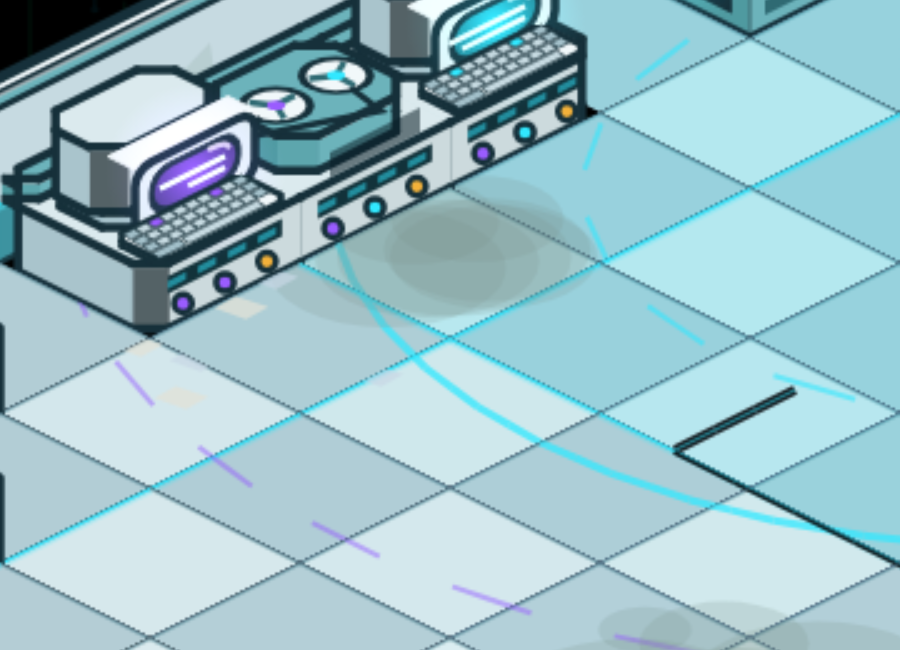
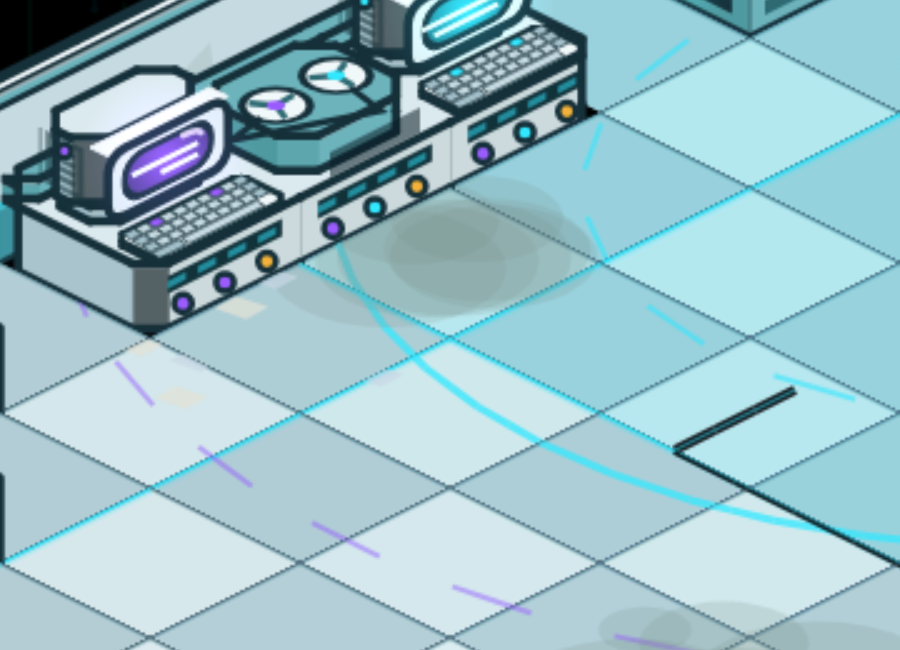
Crystal lab style: keyboard clear of the monitor, a vented side panel on the monitor
The monitor is shallower (bezel front at 0.12) so the keyboard no longer pushes into it, and the monitor's visible side gets an inset vented panel with a knob and a panel join. Build 2026-10-24f.

Claude-Session: https://claude.ai/code/session_0115DZYYhipQqSk6LHvQcEfz

Changed region(s): [[0.0311, 0.1231, 0.3111, 0.3692], [0.3733, 0.0, 0.6222, 0.1538], [0.3111, 0.1538, 0.3422, 0.1846]]

diff --git a/game.html b/game.html
@@ -1771,12 +1771,12 @@ function _showError(msg) {
 // Script files that failed to download. A missing file raises no error of its
 // own — only the "Can't find variable" from whatever needed it — so the load
 // failure is caught here, on its way down (capture phase).
-// THE BUILD. Every script URL below carries ?v=2026-10-24e, so a new deploy
+// THE BUILD. Every script URL below carries ?v=2026-10-24f, so a new deploy
 // fetches a matching set: REPORTED, an iPad ran the new js/indexart.js against
 // an old cached js/config.js ("Attempted to assign to readonly property").
 // Change this, the ?v= on every script tag and BUILD_VERSION in js/config.js
 // together (tests/boot.js checks they agree).
-window.__PAGE_BUILD = "2026-10-24e";
+window.__PAGE_BUILD = "2026-10-24f";
 window.__bootFailed = [];
 window.addEventListener("error", function (e) {
     var t = e && e.target;
@@ -1812,77 +1812,77 @@ if (!CanvasRenderingContext2D.prototype.roundRect) {
 </script>
 
 <!-- Game scripts — load order matters (globals first, logic last) -->
-<script src="js/config.js?v=2026-10-24e"></script>
-<script src="js/icons.js?v=2026-10-24e"></script>
-<script src="js/uikit.js?v=2026-10-24e"></script>
-<script src="js/rng.js?v=2026-10-24e"></script>
-<script src="js/traits.js?v=2026-10-24e"></script>
-<script src="js/elements.js?v=2026-10-24e"></script>
-<script src="js/combat.js?v=2026-10-24e"></script>
-<script src="js/species.js?v=2026-10-24e"></script>
-<script src="js/levels.js?v=2026-10-24e"></script>
-<script src="js/status.js?v=2026-10-24e"></script>
-<script src="js/predator_randomizer.js?v=2026-10-24e"></script>
-<script src="js/mass.js?v=2026-10-24e"></script>
-<script src="js/infest.js?v=2026-10-24e"></script>
-<script src="js/power.js?v=2026-10-24e"></script>
-<script src="js/save.js?v=2026-10-24e"></script>
-<script src="js/camp.js?v=2026-10-24e"></script>
-<script src="js/wavedata.js?v=2026-10-24e"></script>
-<script src="js/helpers.js?v=2026-10-24e"></script>
-<script src="js/predator.js?v=2026-10-24e"></script>
-<script src="js/abilities.js?v=2026-10-24e"></script>
-<script src="js/world.js?v=2026-10-24e"></script>
-<script src="js/commands.js?v=2026-10-24e"></script>
-<script src="js/npc.js?v=2026-10-24e"></script>
-<script src="js/codex.js?v=2026-10-24e"></script>
-<script src="js/draw.js?v=2026-10-24e"></script>
-<script src="js/beetle3d.js?v=2026-10-24e"></script>
-<script src="js/bugs3d.js?v=2026-10-24e"></script>
-<script src="js/ui.js?v=2026-10-24e"></script>
-<script src="js/waves.js?v=2026-10-24e"></script>
-<script src="js/drops.js?v=2026-10-24e"></script>
-<script src="js/clone.js?v=2026-10-24e"></script>
-<script src="js/clonework.js?v=2026-10-24e"></script>
-<script src="js/broods.js?v=2026-10-24e"></script>
-<script src="js/raids.js?v=2026-10-24e"></script>
-<script src="js/ultra.js?v=2026-10-24e"></script>
-<script src="js/formations.js?v=2026-10-24e"></script>
-<script src="js/breakout.js?v=2026-10-24e"></script>
-<script src="js/nightraids.js?v=2026-10-24e"></script>
-<script src="js/bonds.js?v=2026-10-24e"></script>
-<script src="js/autoplay.js?v=2026-10-24e"></script>
-<script src="js/indexart.js?v=2026-10-24e"></script>
-<script src="js/modules.js?v=2026-10-24e"></script>
-<script src="js/shieldcells.js?v=2026-10-24e"></script>
-<script src="js/evolution.js?v=2026-10-24e"></script>
-<script src="js/hdsprites.js?v=2026-10-24e"></script>
-<script src="js/firebombs.js?v=2026-10-24e"></script>
-<script src="js/wallunit.js?v=2026-10-24e"></script>
-<script src="js/labwall.js?v=2026-10-24e"></script>
-<script src="js/moves.js?v=2026-10-24e"></script>
-<script src="js/squads.js?v=2026-10-24e"></script>
-<script src="js/recruitcrystal.js?v=2026-10-24e"></script>
-<script src="js/buildmenu.js?v=2026-10-24e"></script>
-<script src="js/hudgems.js?v=2026-10-24e"></script>
-<script src="js/nethud.js?v=2026-10-24e"></script>
-<script src="js/commandcenter.js?v=2026-10-24e"></script>
-<script src="js/unitinfo.js?v=2026-10-24e"></script>
-<script src="js/infodex.js?v=2026-10-24e"></script>
-<script src="js/facilitymap.js?v=2026-10-24e"></script>
-<script src="js/facility.js?v=2026-10-24e"></script>
-<script src="js/facilityplay.js?v=2026-10-24e"></script>
-<script src="js/facilitydecor.js?v=2026-10-24e"></script>
-<script src="js/facilitystyle.js?v=2026-10-24e"></script>
-<script src="js/zones.js?v=2026-10-24e"></script>
-<script src="js/kits.js?v=2026-10-24e"></script>
-<script src="js/kitui.js?v=2026-10-24e"></script>
-<script src="js/toolbox.js?v=2026-10-24e"></script>
-<script src="js/mixtool.js?v=2026-10-24e"></script>
-<script src="js/radialmenu.js?v=2026-10-24e"></script>
-<script src="js/input.js?v=2026-10-24e"></script>
-<script src="js/game.js?v=2026-10-24e"></script>
-<script src="js/dev.js?v=2026-10-24e"></script>
+<script src="js/config.js?v=2026-10-24f"></script>
+<script src="js/icons.js?v=2026-10-24f"></script>
+<script src="js/uikit.js?v=2026-10-24f"></script>
+<script src="js/rng.js?v=2026-10-24f"></script>
+<script src="js/traits.js?v=2026-10-24f"></script>
+<script src="js/elements.js?v=2026-10-24f"></script>
+<script src="js/combat.js?v=2026-10-24f"></script>
+<script src="js/species.js?v=2026-10-24f"></script>
+<script src="js/levels.js?v=2026-10-24f"></script>
+<script src="js/status.js?v=2026-10-24f"></script>
+<script src="js/predator_randomizer.js?v=2026-10-24f"></script>
+<script src="js/mass.js?v=2026-10-24f"></script>
+<script src="js/infest.js?v=2026-10-24f"></script>
+<script src="js/power.js?v=2026-10-24f"></script>
+<script src="js/save.js?v=2026-10-24f"></script>
+<script src="js/camp.js?v=2026-10-24f"></script>
+<script src="js/wavedata.js?v=2026-10-24f"></script>
+<script src="js/helpers.js?v=2026-10-24f"></script>
+<script src="js/predator.js?v=2026-10-24f"></script>
+<script src="js/abilities.js?v=2026-10-24f"></script>
+<script src="js/world.js?v=2026-10-24f"></script>
+<script src="js/commands.js?v=2026-10-24f"></script>
+<script src="js/npc.js?v=2026-10-24f"></script>
+<script src="js/codex.js?v=2026-10-24f"></script>
+<script src="js/draw.js?v=2026-10-24f"></script>
+<script src="js/beetle3d.js?v=2026-10-24f"></script>
+<script src="js/bugs3d.js?v=2026-10-24f"></script>
+<script src="js/ui.js?v=2026-10-24f"></script>
+<script src="js/waves.js?v=2026-10-24f"></script>
+<script src="js/drops.js?v=2026-10-24f"></script>
+<script src="js/clone.js?v=2026-10-24f"></script>
+<script src="js/clonework.js?v=2026-10-24f"></script>
+<script src="js/broods.js?v=2026-10-24f"></script>
+<script src="js/raids.js?v=2026-10-24f"></script>
+<script src="js/ultra.js?v=2026-10-24f"></script>
+<script src="js/formations.js?v=2026-10-24f"></script>
+<script src="js/breakout.js?v=2026-10-24f"></script>
+<script src="js/nightraids.js?v=2026-10-24f"></script>
+<script src="js/bonds.js?v=2026-10-24f"></script>
+<script src="js/autoplay.js?v=2026-10-24f"></script>
+<script src="js/indexart.js?v=2026-10-24f"></script>
+<script src="js/modules.js?v=2026-10-24f"></script>
+<script src="js/shieldcells.js?v=2026-10-24f"></script>
+<script src="js/evolution.js?v=2026-10-24f"></script>
+<script src="js/hdsprites.js?v=2026-10-24f"></script>
+<script src="js/firebombs.js?v=2026-10-24f"></script>
+<script src="js/wallunit.js?v=2026-10-24f"></script>
+<script src="js/labwall.js?v=2026-10-24f"></script>
+<script src="js/moves.js?v=2026-10-24f"></script>
+<script src="js/squads.js?v=2026-10-24f"></script>
+<script src="js/recruitcrystal.js?v=2026-10-24f"></script>
+<script src="js/buildmenu.js?v=2026-10-24f"></script>
+<script src="js/hudgems.js?v=2026-10-24f"></script>
+<script src="js/nethud.js?v=2026-10-24f"></script>
+<script src="js/commandcenter.js?v=2026-10-24f"></script>
+<script src="js/unitinfo.js?v=2026-10-24f"></script>
+<script src="js/infodex.js?v=2026-10-24f"></script>
+<script src="js/facilitymap.js?v=2026-10-24f"></script>
+<script src="js/facility.js?v=2026-10-24f"></script>
+<script src="js/facilityplay.js?v=2026-10-24f"></script>
+<script src="js/facilitydecor.js?v=2026-10-24f"></script>
+<script src="js/facilitystyle.js?v=2026-10-24f"></script>
+<script src="js/zones.js?v=2026-10-24f"></script>
+<script src="js/kits.js?v=2026-10-24f"></script>
+<script src="js/kitui.js?v=2026-10-24f"></script>
+<script src="js/toolbox.js?v=2026-10-24f"></script>
+<script src="js/mixtool.js?v=2026-10-24f"></script>
+<script src="js/radialmenu.js?v=2026-10-24f"></script>
+<script src="js/input.js?v=2026-10-24f"></script>
+<script src="js/game.js?v=2026-10-24f"></script>
+<script src="js/dev.js?v=2026-10-24f"></script>
 <script>
 // ── BOOT CHECK ────────────────────────────────────────────
 // Every file above must have arrived and run before init.js starts the game.
@@ -1935,7 +1935,7 @@ if (!CanvasRenderingContext2D.prototype.roundRect) {
     document.body.appendChild(d);
 })();
 </script>
-<script src="js/init.js?v=2026-10-24e"></script>
+<script src="js/init.js?v=2026-10-24f"></script>
 
 </body>
 </html>

diff --git a/tests/facilityplay.js b/tests/facilityplay.js
@@ -241,7 +241,7 @@ function measure() {
         same(draw.err, null, 'a styled item threw'); ok(draw.n > 60, 'styled items drawn: ' + draw.n);
         const comp = J(`(function(){ const cs = _fp.items.filter(i => i.fp === 'prop' && i.kind === 'console' && i.room === 'crystal_chamber'); return { n: cs.length, x: Array.from(new Set(cs.map(i => i.x))), ys: cs.map(i => i.y).sort() }; })()`);
         same(comp.n, 3, 'the console bank is three units'); same(comp.x.length, 1, 'the bank is in a line'); ok(comp.x[0] <= 12, 'the bank faces the camera: it stands against the west wall, not the east wall that hides it: x ' + comp.x[0]);
-        ok(/_fpRBox/.test(src) && /_fpRRectPts/.test(src) && /createRadialGradient\(cs2\[0\]/.test(src) && /the back: a plain chunky box with rounded corners/.test(src), 'the rounded cabinet corners, the CRT back or the rounded screen are missing'); ok(/THE KEYBOARD: a rounded tray/.test(src) && /rows = 4, cols = 10/.test(src) && /the bank is ONE machine/.test(src) && /skip = fx/.test(src), 'the keyboard grid or the joined bank is missing'); ok(/_fpStyleComputer/.test(src) && /_fpStyleReel/.test(src) && /lineJoin = "round"/.test(src) && /w = lw \|\| 3/.test(src), 'the computers, reels or bold outlines are missing');
+        ok(/_fpRBox/.test(src) && /_fpRRectPts/.test(src) && /createRadialGradient\(cs2\[0\]/.test(src) && /the back: a plain chunky box with rounded corners/.test(src), 'the rounded cabinet corners, the CRT back or the rounded screen are missing'); ok(/THE SIDE PANEL/.test(src) && /wf = 0\.12, wb = 0\.0/.test(src), 'the monitor side panel is missing or the keyboard overlaps the bezel'); ok(/THE KEYBOARD: a rounded tray/.test(src) && /rows = 4, cols = 10/.test(src) && /the bank is ONE machine/.test(src) && /skip = fx/.test(src), 'the keyboard grid or the joined bank is missing'); ok(/_fpStyleComputer/.test(src) && /_fpStyleReel/.test(src) && /lineJoin = "round"/.test(src) && /w = lw \|\| 3/.test(src), 'the computers, reels or bold outlines are missing');
         same(J("FACILITY_MAP.rooms.length"), 14, 'rooms'); same(J("FACILITY_MAP.openings.length"), 13, 'openings'); ok(!/FACILITY_MAP|facilityCanStep|facilityWalkable|facilityMove/.test(src), 'the style reads or changes the map or the movement');
     });
     check('the catwalks are scaffolding: every wall piece of the catwalks is an open deck edge with a rail (and legs where the arena\'s frame is not), the arena\'s railing wall is an open steel frame, and nothing about them is a solid wall', () => {

diff --git a/js/facilitystyle.js b/js/facilitystyle.js
@@ -192,9 +192,14 @@ function _fpStyleComputer(it) {
         ctx.strokeStyle = FP_PAL.ink; ctx.lineWidth = 2.5; ctx.beginPath(); ctx.moveTo(a[0] + 6, a[1] + 5); ctx.lineTo(a[0] + 18, a[1] + 14); ctx.lineTo(b[0] - 18, b[1] + 14); ctx.lineTo(b[0] - 6, b[1] + 5); ctx.stroke();
         if (front) face(0.2, 0.8, 28, 38, "rgba(10,30,38,0.55)", null);
     } else {         // a monitor on a plinth: a chunky rounded back, a rounded bezel plate, a flat rounded screen with one shine; and a real keyboard in front
-        const wf = 0.3, wb = 0.12, pul = 0.8 + 0.2 * Math.sin(f * 0.05 + seed);
-        rbox(-0.36, 0.36, -0.34, 0.14, 26, 32, FP_PAL.case, FP_PAL.wallDark, FP_PAL.case, 0.1, 3.5, false);              // the plinth the monitor stands on
+        const wf = 0.12, wb = 0.0, pul = 0.8 + 0.2 * Math.sin(f * 0.05 + seed);
+        rbox(-0.36, 0.36, -0.34, 0.06, 26, 32, FP_PAL.case, FP_PAL.wallDark, FP_PAL.case, 0.1, 3.5, false);              // the plinth the monitor stands on
         rbox(-0.4, 0.4, -0.36, wb, 32, 58, FP_PAL.caseLit, FP_PAL.case, _fpShade(FP_PAL.caseLit, 0.93), 0.13, 3.5, false);   // the back: a plain chunky box with rounded corners, like the cabinet
+        const sd = (w, z) => pt(0.4, w, z), seam = (w0, z0, w1, z1, col, lw) => { const p0 = sd(w0, z0), p1 = sd(w1, z1); ctx.strokeStyle = col; ctx.lineWidth = lw; ctx.beginPath(); ctx.moveTo(p0[0], p0[1]); ctx.lineTo(p1[0], p1[1]); ctx.stroke(); };
+        _fpQuad([sd(-0.28, 36), sd(-0.06, 36), sd(-0.06, 55), sd(-0.28, 55)], "rgba(27,54,64,0.1)", "rgba(27,54,64,0.55)", 2);   // THE SIDE PANEL: an inset panel with vent slats and a knob (the side the camera sees)
+        for (let i = 0; i < 4; i++) seam(-0.24, 40 + i * 3.6, -0.1, 40 + i * 3.6, "rgba(27,54,64,0.6)", 2);
+        const kn = sd(-0.17, 51.5); ctx.fillStyle = acc; ctx.beginPath(); ctx.arc(kn[0], kn[1], 2.6, 0, 6.2832); ctx.fill(); ctx.strokeStyle = FP_PAL.ink; ctx.lineWidth = 2; ctx.stroke();
+        seam(-0.33, 34, -0.33, 56, "rgba(27,54,64,0.35)", 1.5);   // a panel join near the back
         const tl = pt(-0.4, wb, 58), tr = pt(0.4, wb, 58), fl = pt(-0.4, wf, 58), fr = pt(0.4, wf, 58);
         _fpQuad([tl, tr, fr, fl], FP_PAL.cap, FP_PAL.cap, 1);   // the thin top of the bezel slab
         _fpQuad(_fpRRectPts(pt, -0.4, 0.4, 31, 58, 0.11, 7, wf), FP_PAL.caseLit, FP_PAL.ink, 3.5);   // the bezel: a rounded plate

diff --git a/js/config.js b/js/config.js
@@ -4,7 +4,7 @@
 
 // The build this file belongs to — the same as window.__PAGE_BUILD and the
 // ?v= on every script tag in game.html (the boot check compares them).
-const BUILD_VERSION = "2026-10-24e";
+const BUILD_VERSION = "2026-10-24f";
 
 // ── GLOBAL ERROR DISPLAY ──────────────────────────────────
 // Lives in game.html (_showError), before any file loads. This file used to

diff --git a/docs/STYLE-CRYSTAL-LAB.md b/docs/STYLE-CRYSTAL-LAB.md
@@ -25,7 +25,7 @@ Saturated colour is for crystal energy and things you use; everything else is a 
 ## Rules
 
 - **Shapes and outlines (refined; reference Dexter's Laboratory and The Powerpuff Girls).** Chunky boxes and cylinders: a lit top, a lit +x side, a darker +y side, a white shine along the lit top edges, a flat toon shadow on the floor. One BOLD ink outline (3-3.5 px, round joins) round the silhouette of every solid, wall top and post; the faces inside a solid are separated by value, never by outlines, and there are none between adjacent wall pieces.
-- **Computers.** 3-D equipment, not flat panels: a cabinet with big knobs and lamps, a CRT monitor with a plain chunky rounded-corner box behind a rounded bezel plate and a flat rounded screen with one shine, cabinets and drive blocks with rounded vertical corners, a keyboard slab, a real keyboard (a rounded tray, a slight slope, four rows of keys with a long space bar, two lit keys) and a tape drive with two turning reels. The units are ONE machine: the cabinet run is continuous (no outline or rounded corner where two units meet, rounded at the ends), a back rail ties them to the wall, and each monitor stands on a plinth on the shared desk. The Crystal Chamber's console bank (three units) stands against the west wall facing into the room, where the camera can see their fronts (it used to be against the east wall, where the wall hid everything but the tops).
+- **Computers.** 3-D equipment, not flat panels: a cabinet with big knobs and lamps, a CRT monitor with a plain chunky rounded-corner box behind a rounded bezel plate and a flat rounded screen with one shine, cabinets and drive blocks with rounded vertical corners, a keyboard slab, a real keyboard (a rounded tray, a slight slope, four rows of keys with a long space bar, two lit keys) and a tape drive with two turning reels. The units are ONE machine: the cabinet run is continuous (no outline or rounded corner where two units meet, rounded at the ends), a back rail ties them to the wall, and each monitor stands on a plinth on the shared desk, with a clear gap between its bezel and the keyboard and an inset vented panel with a knob on the side the camera sees. The Crystal Chamber's console bank (three units) stands against the west wall facing into the room, where the camera can see their fronts (it used to be against the east wall, where the wall hid everything but the tops).
 - **Walls.** Three bands (darker base, body, light cap); a neon seam where the base meets the body; a faint panel join every two tiles; a post at every room corner; an ink line along the top edge. Wear: a rare muted discoloration, a rare rust streak.
 - **Floors.** Pale two-tone tiles with fine seams; a neon seam on every fourth tile line; decals (rings, cables, stripes, stains) keep their place and are recoloured into the palette; stains are fainter.
 - **Light.** Emissive only on energy sources and interactive things (the crystal, power cells, generator core, screens, seams, door lintels). No reflections, no ambient occlusion, no texture noise.
